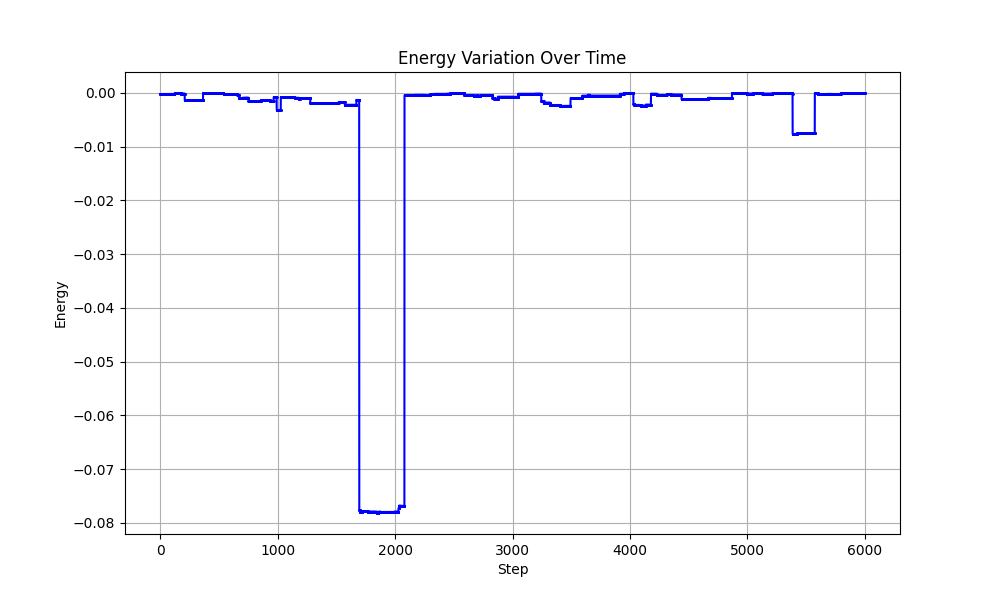
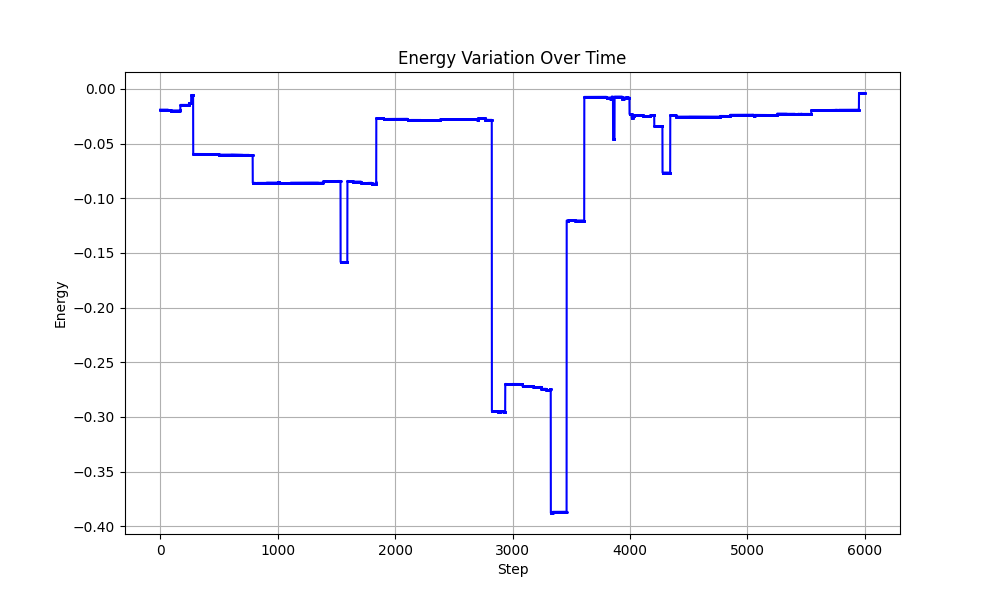
fixed a bugged test

diff --git a/montecarlosim/simulation.py b/montecarlosim/simulation.py
@@ -353,5 +353,8 @@ if TEST_MODE:
         assert lj_potential(1) == 0, \
             """Potential at 1 should be 0"""
         
-        assert lj_potential(math.pow(2, (1/6))) == -1, \
+        potential = round(lj_potential(math.pow(2, (1/6))), 0)
+        print(potential)
+
+        assert potential == -1, \
             """Potential should be -1"""

diff --git a/run_simulation.py b/run_simulation.py
@@ -9,7 +9,7 @@ from montecarlosim.plotter import Plotter
 def main():
 
     L = 500
-    N = 600
+    N = 1200
 
     print(f"Simulation started at {time.asctime()}...")
     t0 = time.time()
